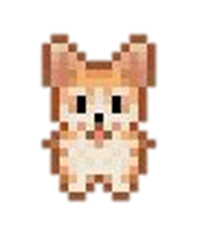
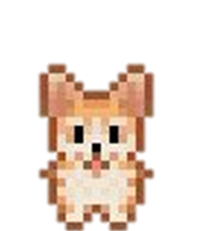
feat: 게임 css 수정

diff --git a/zooting/src/components/subgame/subgame.ts b/zooting/src/components/subgame/subgame.ts
@@ -1,11 +1,14 @@
 import StopDogImg from '@/assets/images/sub_game/stopdog.png';
 import RunningDogImg from '@/assets/images/sub_game/runningdog.png';
-import StartDogImg from '@/assets/images/sub_game/startdog.png';
-
+import HamburgerImg from '@/assets/images/sub_game/obstacle_hamburger.png';
+import PotatoImg from '@/assets/images/sub_game/obstacle_potato.png';
+import PizzaImg from '@/assets/images/sub_game/obstacle_pizza.png';
 
 document.addEventListener('DOMContentLoaded', () => {
-
     let canvas = document.querySelector("#canvas") as HTMLCanvasElement
+    if (!canvas) {
+        return;
+    }
     let ctx = canvas.getContext('2d');
     canvas.width = 600; // 300 - canvas 너비
     canvas.height =200;   //215
@@ -16,9 +19,9 @@ document.addEventListener('DOMContentLoaded', () => {
     dogImg.src = StopDogImg;
     let dino = {
         x: 0,
-        y: 130, // 땅에서 상자 크기만큼 위에서부터 그린다
+        y: 160, // 땅에서 상자 크기만큼 위에서부터 그린다
         width: 50,
-        height: 60,
+        height: 30,
         draw(){
             if (! ctx){
                 return;
@@ -26,10 +29,11 @@ document.addEventListener('DOMContentLoaded', () => {
             // ctx.fillStyle = 'green';
             // ctx.fillRect(this.x, this.y, this.width, this.height);
             ctx.drawImage(dogImg, this.x, this.y, this.width, this.height);
-            console.log(dogImg.src)
         }
     }
-    // let dogImgUrl = new URL('@/assets/images/sub_game/startdog.png', import.meta.url);
+
+    let obstacleImg = new Image();
+    obstacleImg.src = HamburgerImg;
     // 선인장 장애물
     class Cactus {
         width:number;
@@ -41,14 +45,23 @@ document.addEventListener('DOMContentLoaded', () => {
             this.height = 20 + getRandomInt(-5, 6);
             this.x = 560; // 가장 끝에서 약 30만큼 전
             this.y = 190 - this.height; // 땅위치에서 높이만큼 위에서 시작
+
         }
         draw() {
             if (! ctx) {
                 return;
             }
-            ctx.fillStyle = 'red';
-            ctx.fillRect(this.x, this.y, this.width, this.height);
-
+            // ctx.fillStyle = 'red';
+            // ctx.fillRect(this.x, this.y, this.width, this.height);
+            // let num = getRandomInt(1, 3);
+            // if (num === 1) {
+            //     obstacleImg.src = HamburgerImg;
+            // }else if (num === 2) {
+            //     obstacleImg.src = PizzaImg;
+            // }else {
+            //     obstacleImg.src = PotatoImg;
+            // }
+            ctx.drawImage(obstacleImg, this.x, this.y, this.width, this.height);
         }
     }
 
@@ -67,21 +80,10 @@ document.addEventListener('DOMContentLoaded', () => {
     let gameState = 0; // 0 : end , 1: start
     let jumpState = 0; // 0 : default, 1 : jump
     let jumpTimer = 0;
-    let animation:number;
-    let life = 5;
+    let animation:number ;
     let score = 0;
 
-    let lifeElement = document.querySelector('#life');
-    if (lifeElement) {
-     lifeElement.innerHTML = life.toString();
-    }
     let scoreElement = document.querySelector('#score');
-    if(scoreElement) {
-        scoreElement.innerHTML = score.toString();
-    }
-
-
-
 
     function frameAction () {
         animation = requestAnimationFrame(frameAction);
@@ -112,41 +114,69 @@ document.addEventListener('DOMContentLoaded', () => {
         // 캐릭터 그리기
         dino.draw();
         // 스페이스 연타로 점프할때 jumptimer가 40이 되면 스페이스가 jump mode가 아니게 된다
-        if (jumpTimer > 40) {
+        if (jumpTimer > 10) {
+            console.log('44')
+            console.log(jumpTimer)
             jumpState = 0;
             jumpTimer = 0;
         }
         if(jumpState == 1){
-            jumpTimer++;
-            dino.y-= 0.8;
+            console.log('55')
+            console.log(jumpTimer, dino.y)
+            jumpTimer += 20;
+            dino.y-= 70;
         }
-        if(jumpState == 0) {
-            if(dino.y < 130) {
-                dino.y ++ ;
+        if(jumpState == 0) {    // 타이머가 다 돼서 state가 0이 되고 높이가 135보다 높으면 2.5씩 떨어진다
+            if(dino.y < 150) {
+                jumpState = 0
+                if (dino.y + 20 <= 160) {
+                    dino.y += 2 ;
+                } else if (dino.y + 20 >160) {
+                    dino.y = 160
+                }
+                console.log('!!!!')
             }
+
+        }
+        if (jumpTimer > 10) {
+            console.log('44')
+            console.log(jumpTimer)
+            jumpState = 0;
+            jumpTimer = 0;
         }
     }
-
+    let descriptionElement = document.querySelector("#description");
+    let recordElement = document.querySelector("#record");
     // 스페이스바 누르면 게임 화면 시작
     document.addEventListener('keydown', (e)=>{
         if (e.code == 'Space'){
             if (gameState == 0) {
+                if (descriptionElement) {
+                    descriptionElement.innerHTML = "";
+                }
+                if (recordElement) {
+                    recordElement.innerHTML = "score";
+                }
+                if(scoreElement) {
+                    scoreElement.innerHTML = score.toString();
+                }
+                initGame();
                 gameState = 1; // 게임 실행
                 frameAction();
 
-            } else if (gameState == 1) { // 게임실행 중일 때 스페이스 누르면
+            } else if (gameState == 1 && dino.y > 150) { // 게임실행 중일 때 스페이스 누르면
                 jumpState = 1; // 점프 중으로 변경
                 dogImg.src = RunningDogImg;
                 dino.draw();
             }
         }
     })
-    // 스페이스바 누르면 게임 화면 시작
+
     document.addEventListener('keyup', (e)=>{
         if (e.code == 'Space'){
             if (gameState == 1) { // 게임실행 중일 때 스페이스 누르면
                 jumpState = 1; // 점프 중으로 변경
-                dogImg.src = RunningDogImg;
+                dogImg.src = StopDogImg;
                 dino.draw();
             }
         }
@@ -168,17 +198,39 @@ document.addEventListener('DOMContentLoaded', () => {
         let yValue = cactus.y - ( dino.y + dino.height );
         if( xValue < 0 && yValue < 0 ){ // 충돌!
             // 충돌 시 실행되는 코드
-            life --;
-            if (lifeElement) {
-                lifeElement.innerHTML = life.toString();
-            }
             if (!animation || !ctx) {
                 return;
             }
-            alert('게임오버');
+            console.log(1)
             cancelAnimationFrame(animation);
-            ctx.clearRect(0, 0, canvas.width, canvas.height);
+            console.log(2)
+            setTimeout(()=> {
+                if (!ctx) {return;}
+                ctx.clearRect(0, 0, canvas.width, canvas.height);
+                gameState = 0;
+                if (descriptionElement) {
+                    descriptionElement.innerHTML = "Game Over"
+                }
+                if (scoreElement) {
+                    scoreElement.innerHTML =""
+                }
+                if (recordElement) {
+                    recordElement.innerHTML =""
+                }
+            }, 0)
             // location.reload();
+            console.log(3)
+        }
+    }
+    function initGame() {
+        // 초기화할 변수들을 여기에 추가
+        timer = 0;
+        cactusArr = [];
+        jumpState = 0;
+        jumpTimer = 0;
+        score = 0;
+        if (scoreElement) {
+            scoreElement.innerHTML = score.toString();
         }
     }
 

diff --git a/zooting/src/components/subgame/Subgame.vue b/zooting/src/components/subgame/Subgame.vue
@@ -1,19 +1,24 @@
 <template>
-  <div class="canvas-size border-2">
-    <canvas id="canvas" class="z-40 border-4"></canvas>
-    <div>
-      <span>목숨 : <i id="life"></i></span>
-      <span>점수 : <i id="score"></i></span>
+  <div>
+    <div class="canvas-size border-2" id="game" v-if = "pressStart" >
+      <span id="description" class="shakeY absolute align-middle"> Press Spacebar</span>
+      <span id="record"></span><i id="score"></i>
+      <canvas id="canvas" class="z-40"></canvas>
     </div>
   </div>
 </template>
 
 <script setup lang="ts">
 import './subgame'
+import {ref} from "vue";
+const pressStart = ref(true);
+
 </script>
 
 <style scoped>
 .canvas-size{
+  background-image: url("/src/assets/images/sub_game/background.gif");
+  background-size: 600px 200px;
   position: relative;
   width : 600px;
   height: 200px;
@@ -21,5 +26,25 @@ import './subgame'
 #canvas {
   width: 90%;
   height: 90%;
+}
+#description {
+  position: absolute;
+  top: 50%;
+  left: 50%;
+  transform: translate(-50%, -50%);
+  font-size: 40px;
+  font-weight: bolder;
+  color: #eeb9f8;
+}
+
+#record {
+  font-size: 20px;
+  font-weight: bolder;
+  color: #eeb9f8;
+}
+#score {
+  font-size: 20px;
+  font-weight: bolder;
+  color: #eeb9f8;
 }
 </style>

diff --git a/zooting/src/components/home/Ready.vue b/zooting/src/components/home/Ready.vue
@@ -4,7 +4,7 @@
       <img src="/src/assets/images/logo/logo_lg.png" alt="" class="animate__bounceIn">
     </div>
     <div class="ready__main">
-      <Subgame class="mb-10"/>
+      <Subgame class="mb-10 subgame"/>
       <ReadyMatch />
       <ReadyRecord />
     </div>
@@ -34,4 +34,10 @@ import Subgame from '../subgame/Subgame.vue';
 .ready__main {
   @apply grid grid-cols-7 h-full gap-5;
 }
+@media (max-width : 640px) {
+  .subgame {
+    display : none;
+  }
+}
+
 </style>
